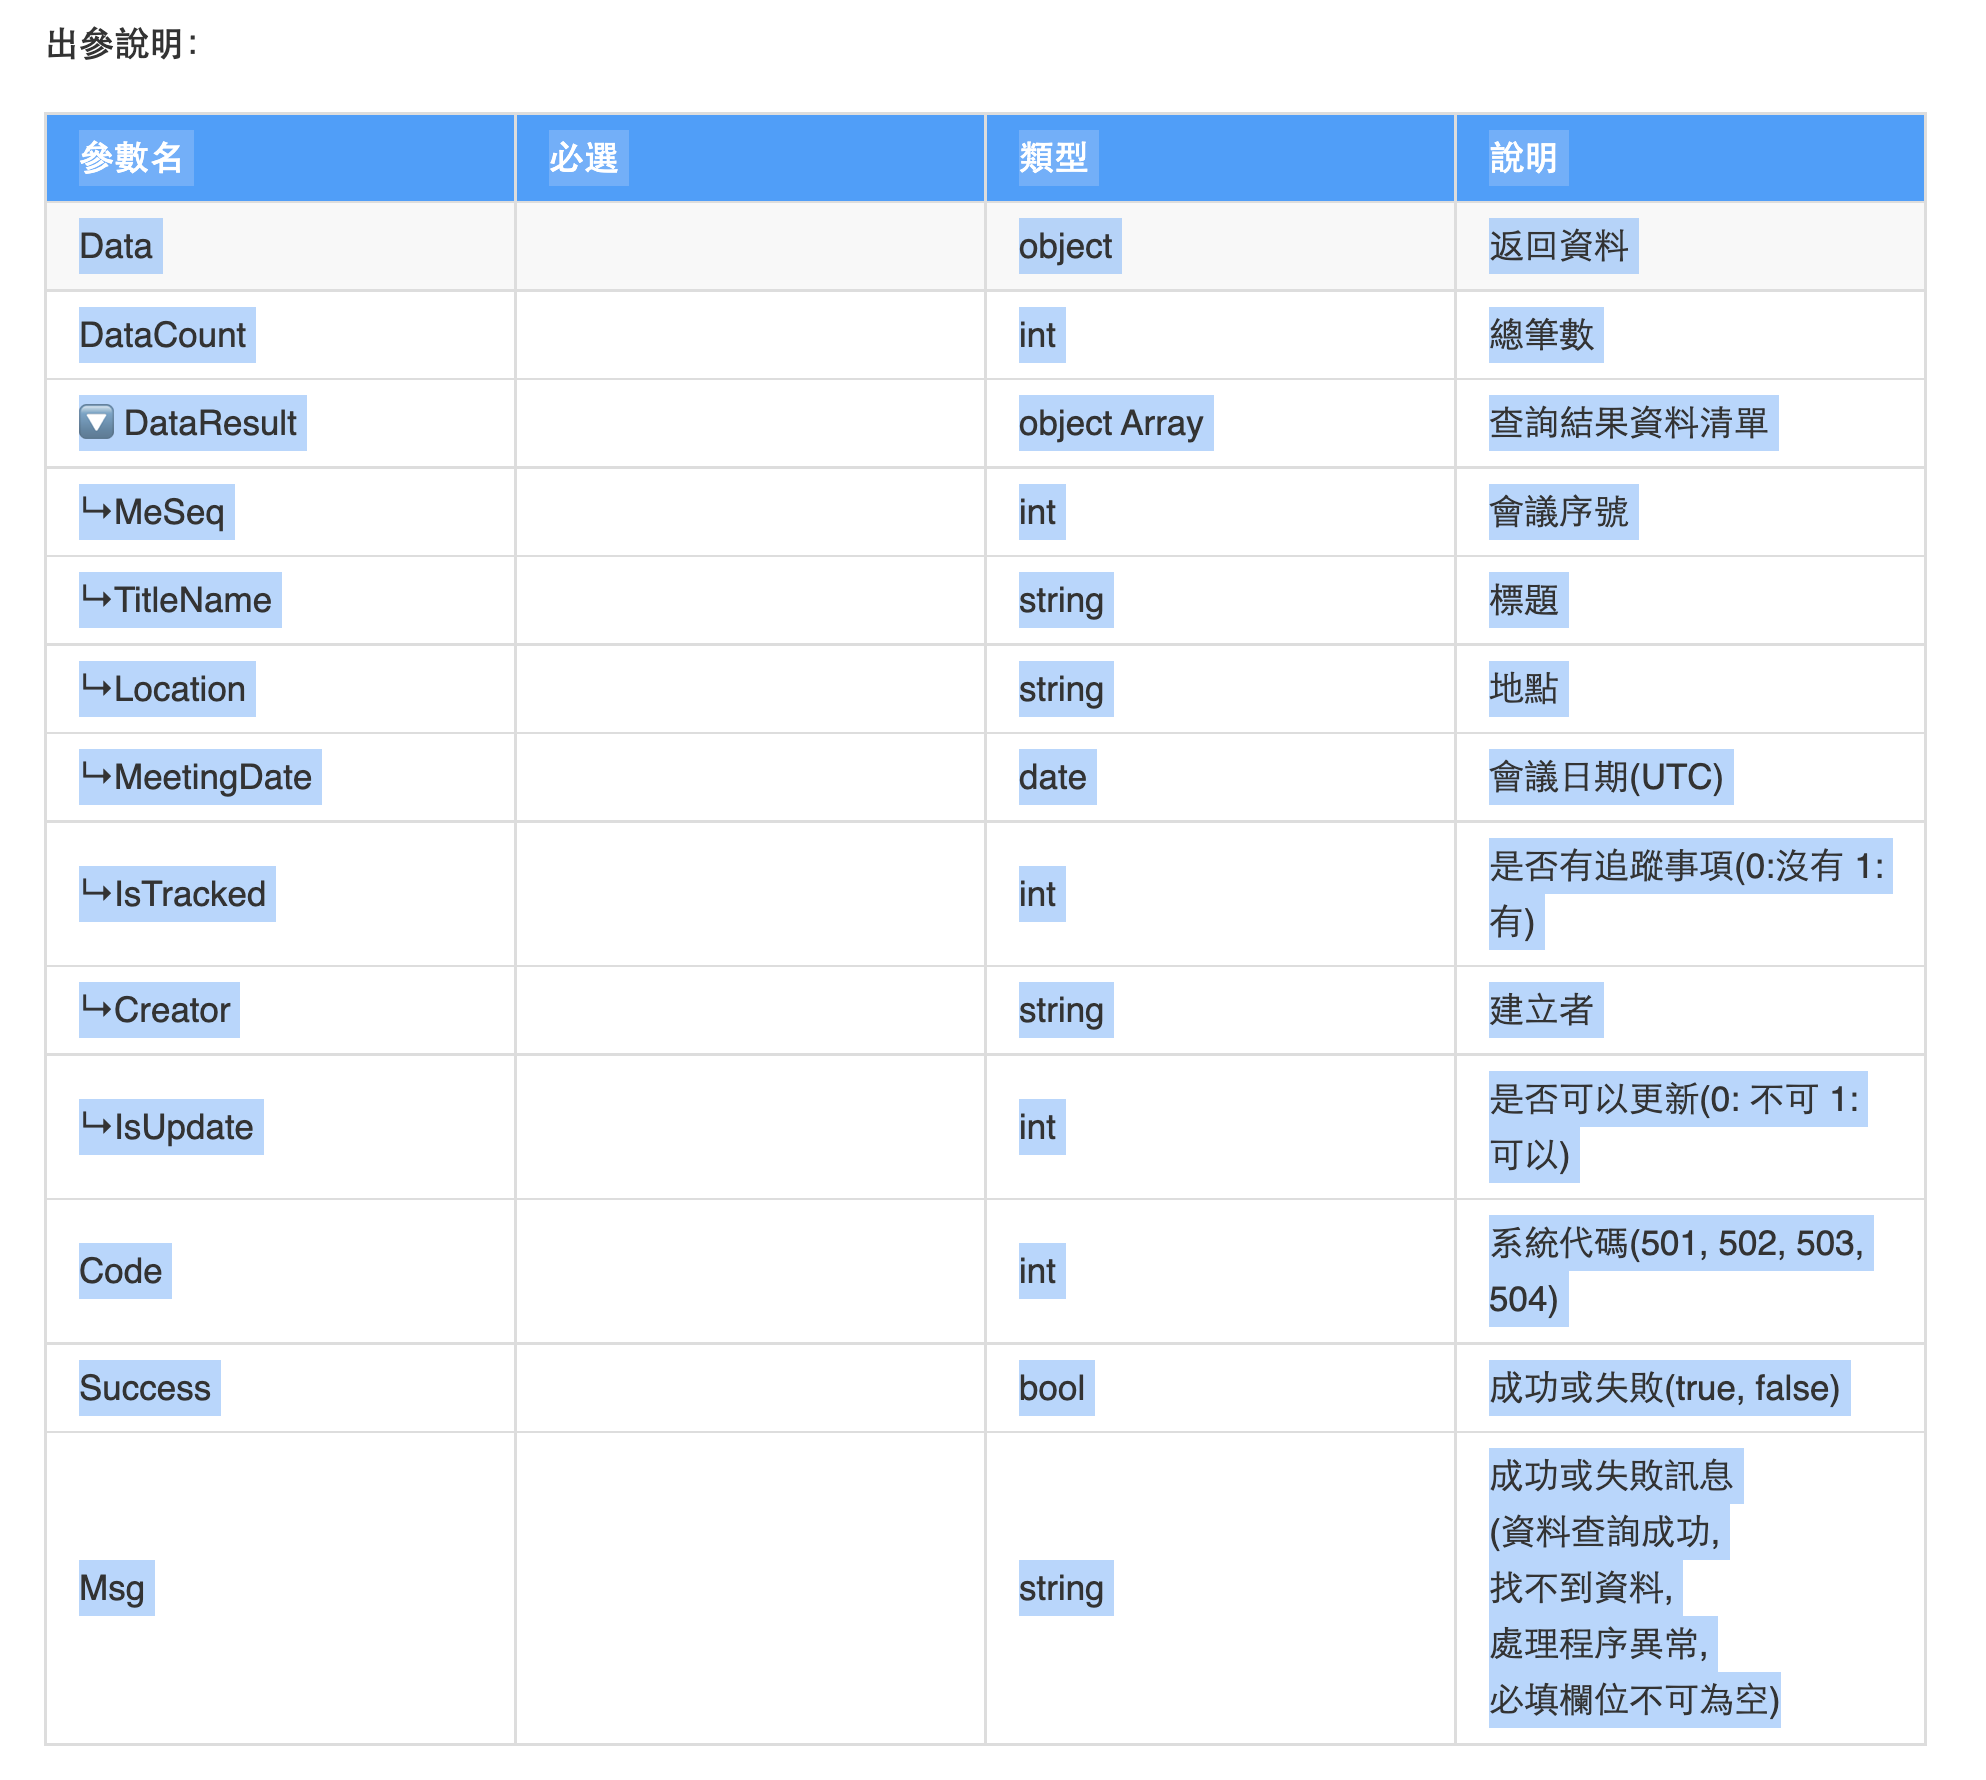
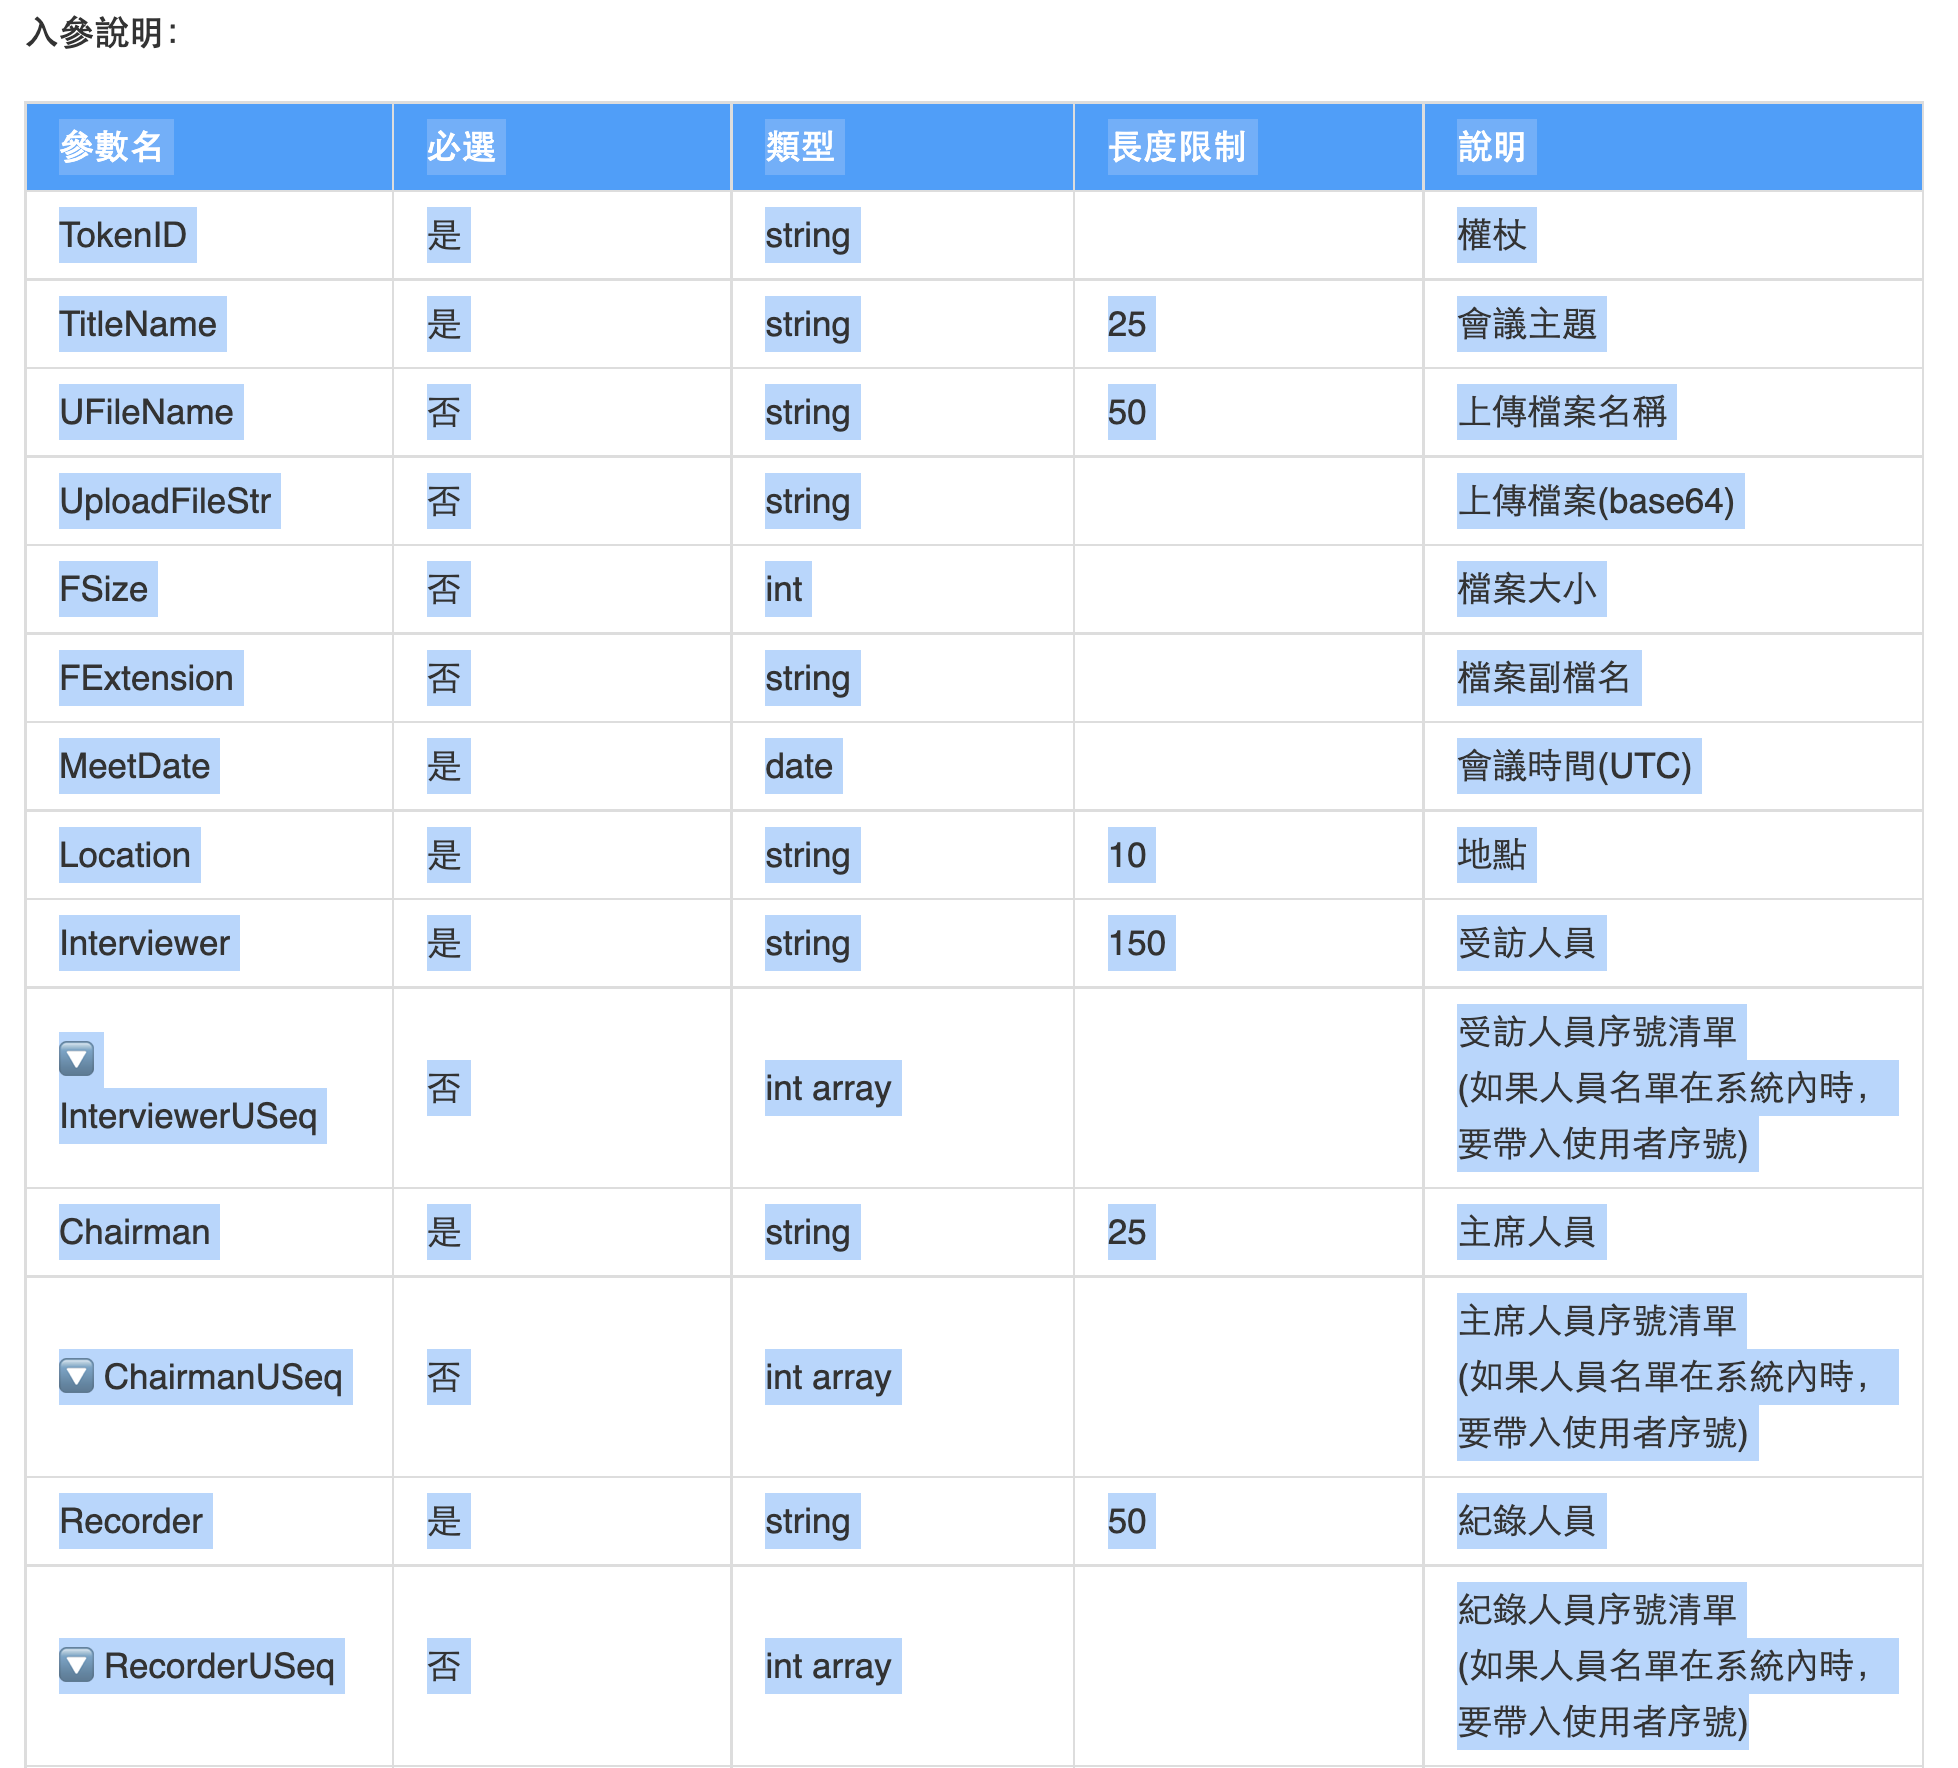
[ 新增 ] showDoc to TypeScript，新增入參模式可切換
[ 新增 ] showDoc to TypeScript，新增入參模式可切換

diff --git a/index.html b/index.html
@@ -789,7 +789,17 @@
 					<h4>showDoc to TypeScript</h4>
 					<p>直接複製showDoc上的參數資料，貼至下方即可轉換為型態（class）。</p>
 					<p>排除處理參數名：<span id="showDoc_exceptionParameter"></span></p>
-					<img src="img/007.png" style="width: 50%;" alt="">
+					<p>參數類型：</p>
+					<div>
+						<input type="radio" name="isOutput" id="showDoc_output" autocomplete="off" checked>
+						<label for="showDoc_output">Output</label>
+					</div>
+					<div>
+						<input type="radio" name="isOutput" id="showDoc_input" autocomplete="off">
+						<label for="showDoc_input">Input</label>
+					</div>
+					<img src="img/007.png" style="width: 40%;" alt="">
+					<img src="img/008.png" style="width: 40%;" alt="">
 
 					<textarea class="form-control" cols="95" rows="2" id="showDoc_textarea_input"></textarea>
 					<br><input class="btn btn-default btn-block" type="button" value="執行" onclick="showDoc_convert()"><br>
@@ -798,36 +808,73 @@
 
 					<script type="text/javascript">
 						// 排除處理的參數名
-						let exceptionParameter = ['參數名', 'Data', 'DataCount', '🔽 DataResult', 'Code', 'Success', 'Msg'];
+						let exceptionParameter = ['參數名', 'Data', 'DataCount', 'DataResult', 'Code', 'Success', 'Msg', 'TokenID'];
 						document.getElementById("showDoc_exceptionParameter").innerText = exceptionParameter;
 
 						function showDoc_convert() {
+							// 是否執行子層
+							let childOpen = false;
+							// 是否為輸出參數
+							const isOutput = document.getElementById("showDoc_output").checked;
 							// 輸出模板
 							let outputString = '';
 							outputString += 'export class 名稱 {';
 							outputString += '\n  /**';
 							outputString += '\n   * 列表';
 							// 備註內容
-							remarkString = '';
+							let remarkString = '';
 							// 參數內容
-							constructorString = '';
-
+							let constructorString = '';
+							// 子層模板
+							let childOutputString = '';
+							// 子層備註內容
+							let childRemarkString = '';
+							// 子層參數內容
+							let childConstructorString = '';
+							
 							// 取得輸入資料
 							let inputValue = document.getElementById("showDoc_textarea_input").value;
 							// 取得每一列
 							let lines = inputValue.replaceAll("\t\t", "\t").split("\n"); 
-							lines.forEach((line) => {
+							lines.forEach((line, index) => {
+								let childOpenOpen = false;
+								let type = '';
 								let lineArr = line.split("\t"); 
+								let value = lineArr[0].replaceAll("🔽 ", "");
 								// 如果不再排除名單中
 								if (!exceptionParameter.includes(lineArr[0])) {
-									let value = lineArr[0].replaceAll("↳", "");
-									let type = '';
+									// 是否開啟子層判斷
+									if (childOpen) {
+										// 是否為子層
+										if (value.indexOf("↳") !== -1) {
+											childOpenOpen = true;
+										} else {
+											// 代表子層結束
+											childOutputString += childRemarkString;
+											childOutputString += '\n   */';
+											childOutputString += '\n  constructor(';
+											childOutputString += childConstructorString;
+											childOutputString += '\n  ) { }';
+											childOutputString += '\n}';
+											childOutputString += '\n';
+											childOutputString += '\n';
 
-									// 擺入備註
-									remarkString += `\n   * @param ${value} ${lineArr[2]}`;
+											childOpen = false;
+											childOpenOpen = false;
+										}
+									}
+									value = value.replaceAll("↳", "");
+
+									if (childOpenOpen) {
+										// 擺入備註
+										childRemarkString += `\n   * @param ${value} ${lineArr[isOutput ? 2 : (lineArr.length - 1)]}`;
+									} else {
+										// 擺入備註
+										remarkString += `\n   * @param ${value} ${lineArr[isOutput ? 2 : (lineArr.length - 1)]}`;
+									}
 
 									// 判斷型態
-									switch (lineArr[1]) {
+									switch (lineArr[isOutput ? 1 : 2].toLowerCase()) {
 										case 'int':
 											type = 'number | null = null';
 											break;
@@ -838,8 +885,14 @@
 										case 'date':
 											type = 'string | null = null';
 											break;
-										case 'object Array':
-											type = 'any[] = []';
+										case 'int array':
+											type = 'number[] = []';
+											break;
+										case 'string array':
+											type = 'string[] = []';
+											break;
+										case 'object array':
+											type = `${value}[] = []`;
 											break;
 										default:
 											type = 'null = null';
@@ -851,8 +904,40 @@
 										type = 'YN = 0';
 									}
 
-									// 擺入參數
-									constructorString += `\n    public ${value}: ${type},`;
+									if (childOpenOpen) {
+										// 擺入參數
+										childConstructorString += `\n    public ${value}: ${type},`;
+									} else {
+										// 擺入參數
+										constructorString += `\n    public ${value}: ${type},`;
+
+										// 如果型態是
+										if (lineArr[isOutput ? 1 : 2].toLowerCase() === 'object array') {
+											// 接下來有箭頭的要列為其子層
+											childOpen = true;
+
+											// 建立子層模板
+											childOutputString += `export class ${value} {`;
+											childOutputString += '\n  /**';
+											childOutputString += `\n   * ${lineArr[isOutput ? 2 : (lineArr.length - 1)]}`;
+										}
+									}
+
+									// 如果開啟子層判斷 且 最後一筆
+									if (childOpen && index === lines.length - 1) {
+										// 代表子層結束
+										childOutputString += childRemarkString;
+										childOutputString += '\n   */';
+										childOutputString += '\n  constructor(';
+										childOutputString += childConstructorString;
+										childOutputString += '\n  ) { }';
+										childOutputString += '\n}';
+										childOutputString += '\n';
+										childOutputString += '\n';
+
+										childOpen = false;
+										childOpenOpen = false;
+									}
 								}
 							});
 
@@ -862,6 +947,10 @@
 							outputString += constructorString;
 							outputString += '\n  ) { }';
 							outputString += '\n}';
+							outputString += '\n';
+							outputString += '\n';
+
+							outputString += childOutputString;
 
 							document.getElementById("showDoc_textarea_output").value = outputString;
 						}
